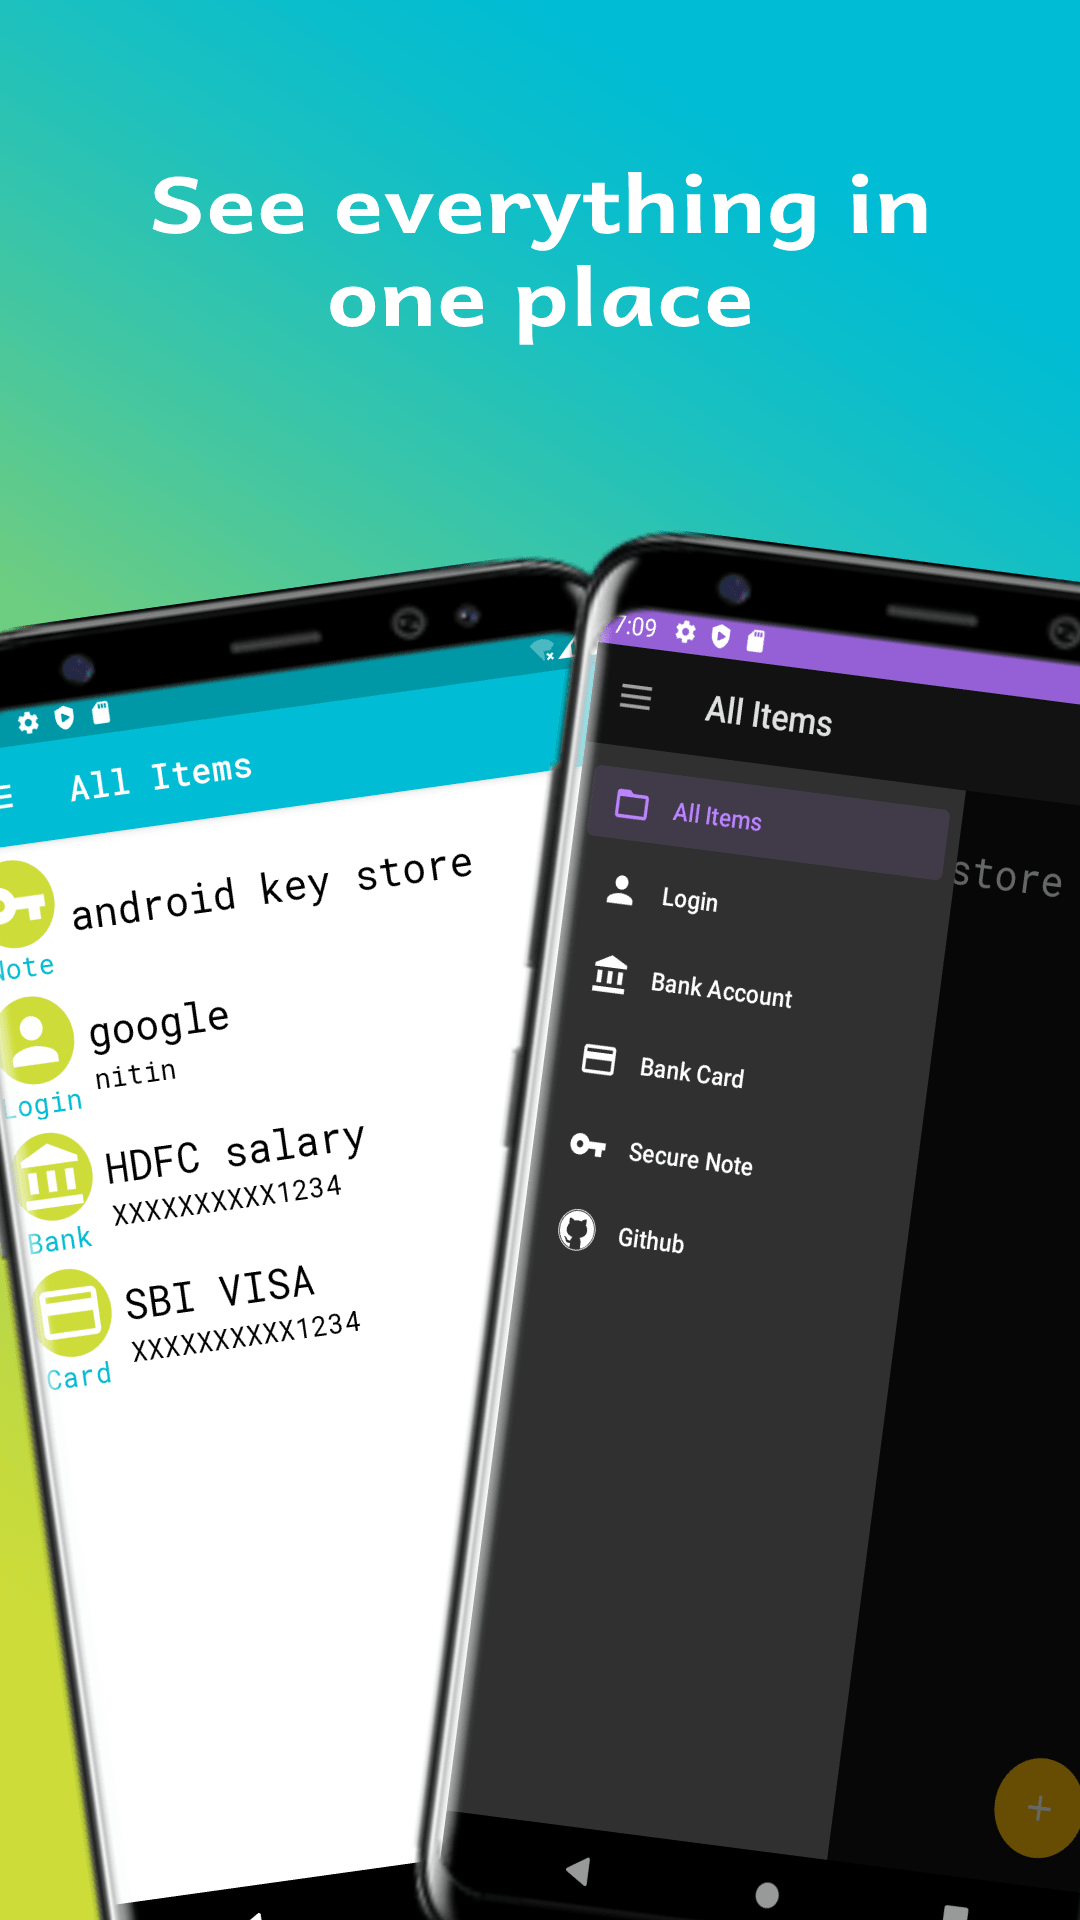
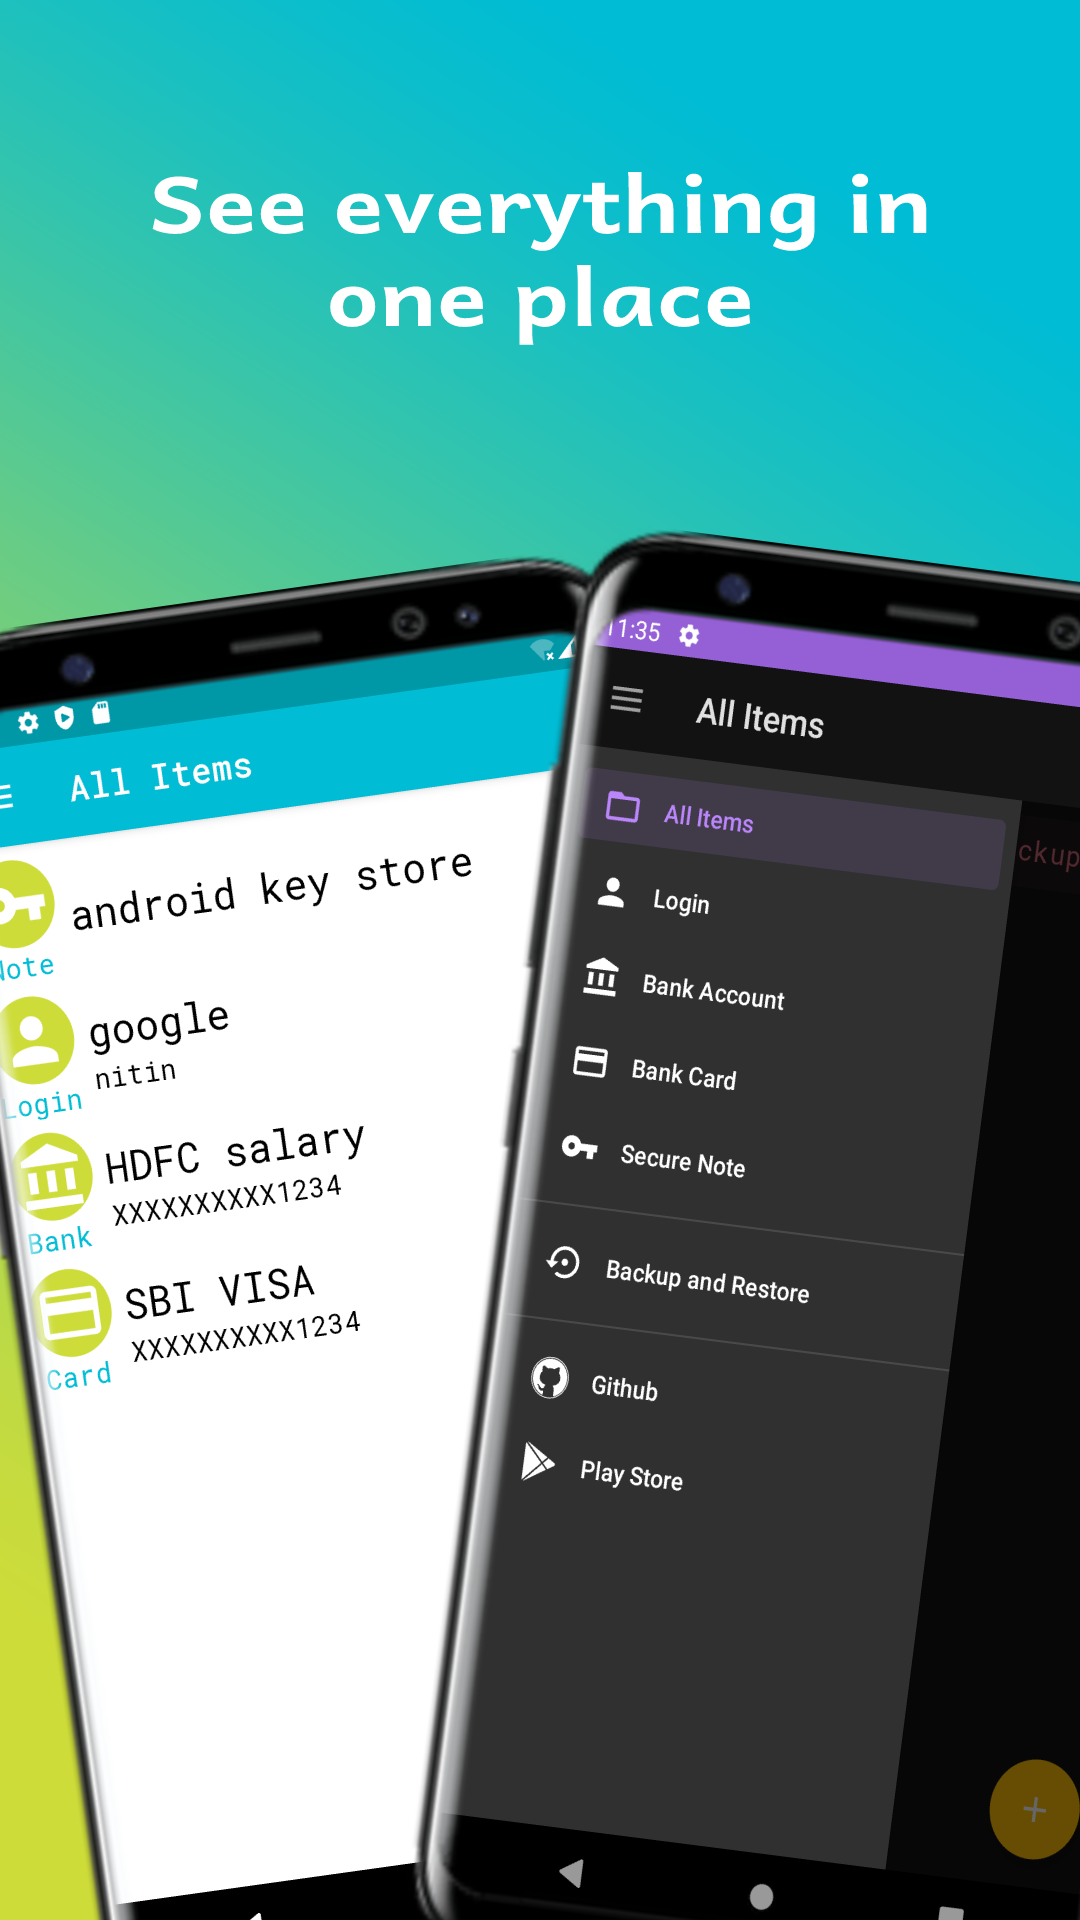
changed msg and width of nav drawer and updated readme

diff --git a/README.md b/README.md
@@ -16,6 +16,7 @@ Safe Box is an easy to use, secure app which will store all your data in a super
 * Store data locally and encrypted
 * Supports dark theme
 * Share non-confidential data from a record with a single click
+* Backup and Restore data locally
 
 <hr>
 
@@ -27,6 +28,9 @@ Safe Box is an easy to use, secure app which will store all your data in a super
 <img src="./screenshots/readme/onePlace.png" height="400px" width = "200px"/>&emsp;
 <img src="./screenshots/readme/swipeToDelete.png" height="400px" width = "200px"/>&emsp;
 <img src="./screenshots/readme/editCopyShareDelete.png" height="400px" width = "200px"/>
+</br></br>
+
+<img src="./screenshots/readme/backupAndRestore.png" height="400px" width = "200px"/>&emsp;
 
 <hr>
 
